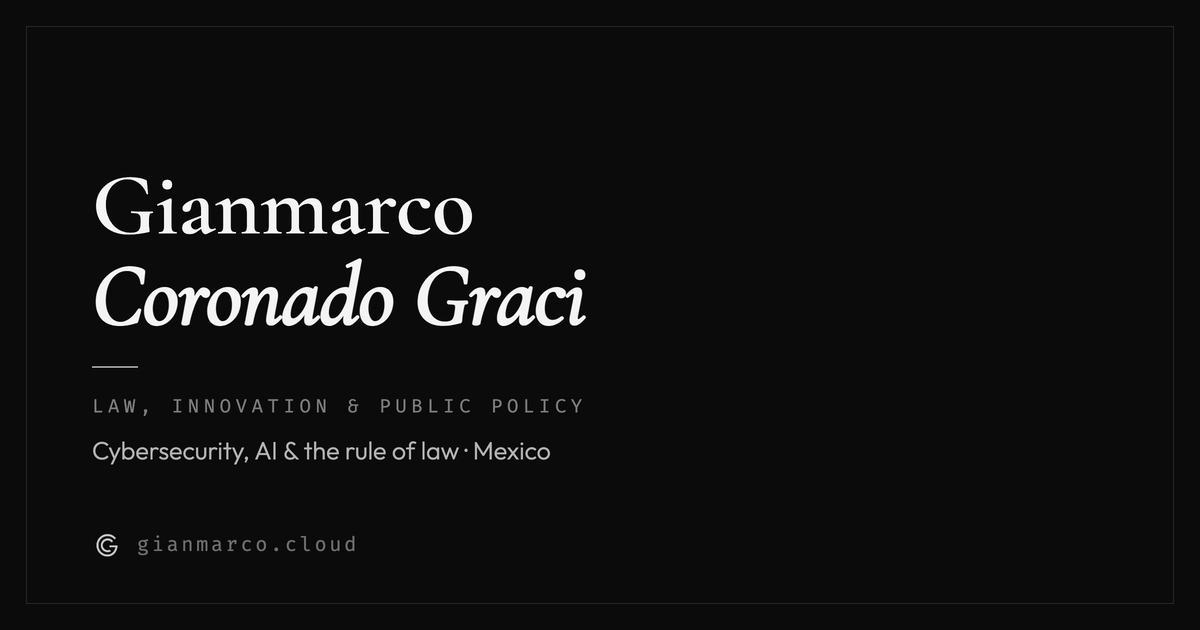
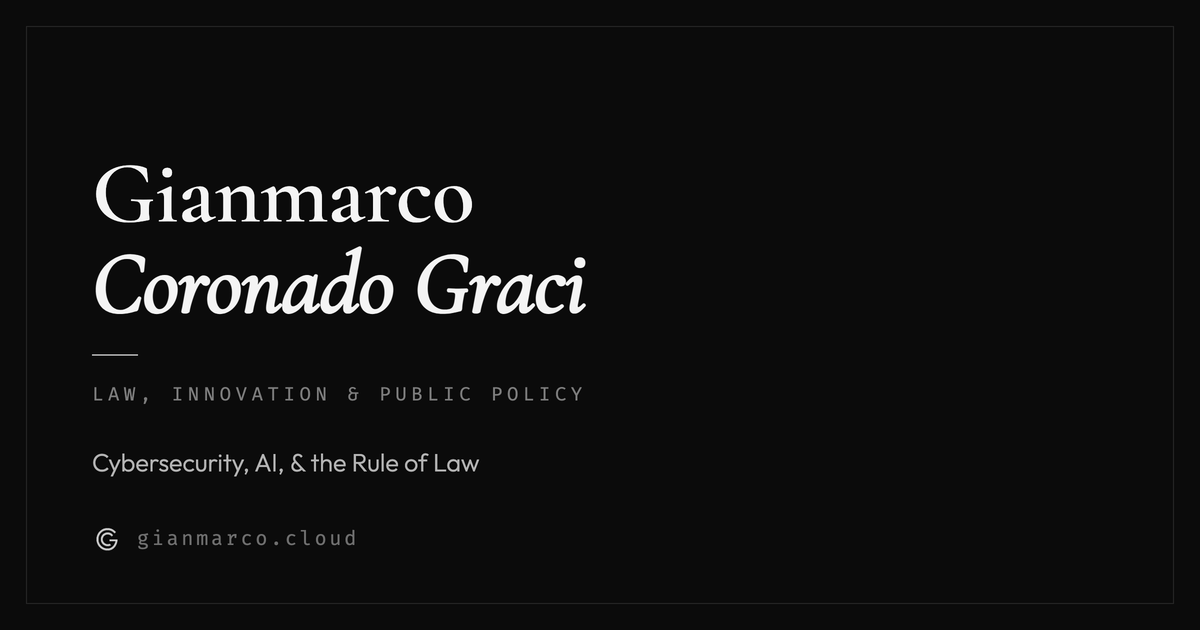
Tweak hero sub-line copy; regenerate homepage share card
"Cybersecurity, AI & the rule of law · Mexico" -> "Cybersecurity, AI, & the Rule of Law"

diff --git a/index.html b/index.html
@@ -21,7 +21,7 @@
 <meta property="og:image" content="https://www.gianmarco.cloud/assets/og-home.png">
 <meta property="og:image:width" content="1200">
 <meta property="og:image:height" content="630">
-<meta property="og:image:alt" content="Gianmarco Coronado Graci — Cybersecurity, AI &amp; the rule of law">
+<meta property="og:image:alt" content="Gianmarco Coronado Graci — Cybersecurity, AI, &amp; the Rule of Law">
 <meta name="twitter:card" content="summary_large_image">
 <meta name="twitter:title" content="Gianmarco Coronado Graci — Law, Innovation &amp; Public Policy">
 <meta name="twitter:description" content="Mexican lawyer working on cybersecurity law and policy across Mexico and Latin America.">
@@ -404,7 +404,7 @@
       <h1 class="name"><span class="given">Gianmarco</span><span class="sur">Coronado Graci</span></h1>
       <div class="rule"></div>
       <p class="role" data-en="Law, Innovation &amp; Public Policy" data-es="Derecho, Innovaci&oacute;n &amp; Pol&iacute;ticas P&uacute;blicas">Law, Innovation &amp; Public Policy</p>
-      <p class="role-sub" data-en="Cybersecurity, AI &amp; the rule of law &middot; Mexico" data-es="Ciberseguridad, IA y Estado de derecho &middot; M&eacute;xico">Cybersecurity, AI &amp; the rule of law &middot; Mexico</p>
+      <p class="role-sub" data-en="Cybersecurity, AI, &amp; the Rule of Law" data-es="Ciberseguridad, IA y Estado de derecho &middot; M&eacute;xico">Cybersecurity, AI, &amp; the Rule of Law</p>
       <div class="contacts">
         <a href="mailto:gcg@lipp.legal">gcg@lipp.legal</a>
         <a href="https://www.linkedin.com/in/gcg" target="_blank" rel="noopener noreferrer">linkedin.com/in/gcg</a>
